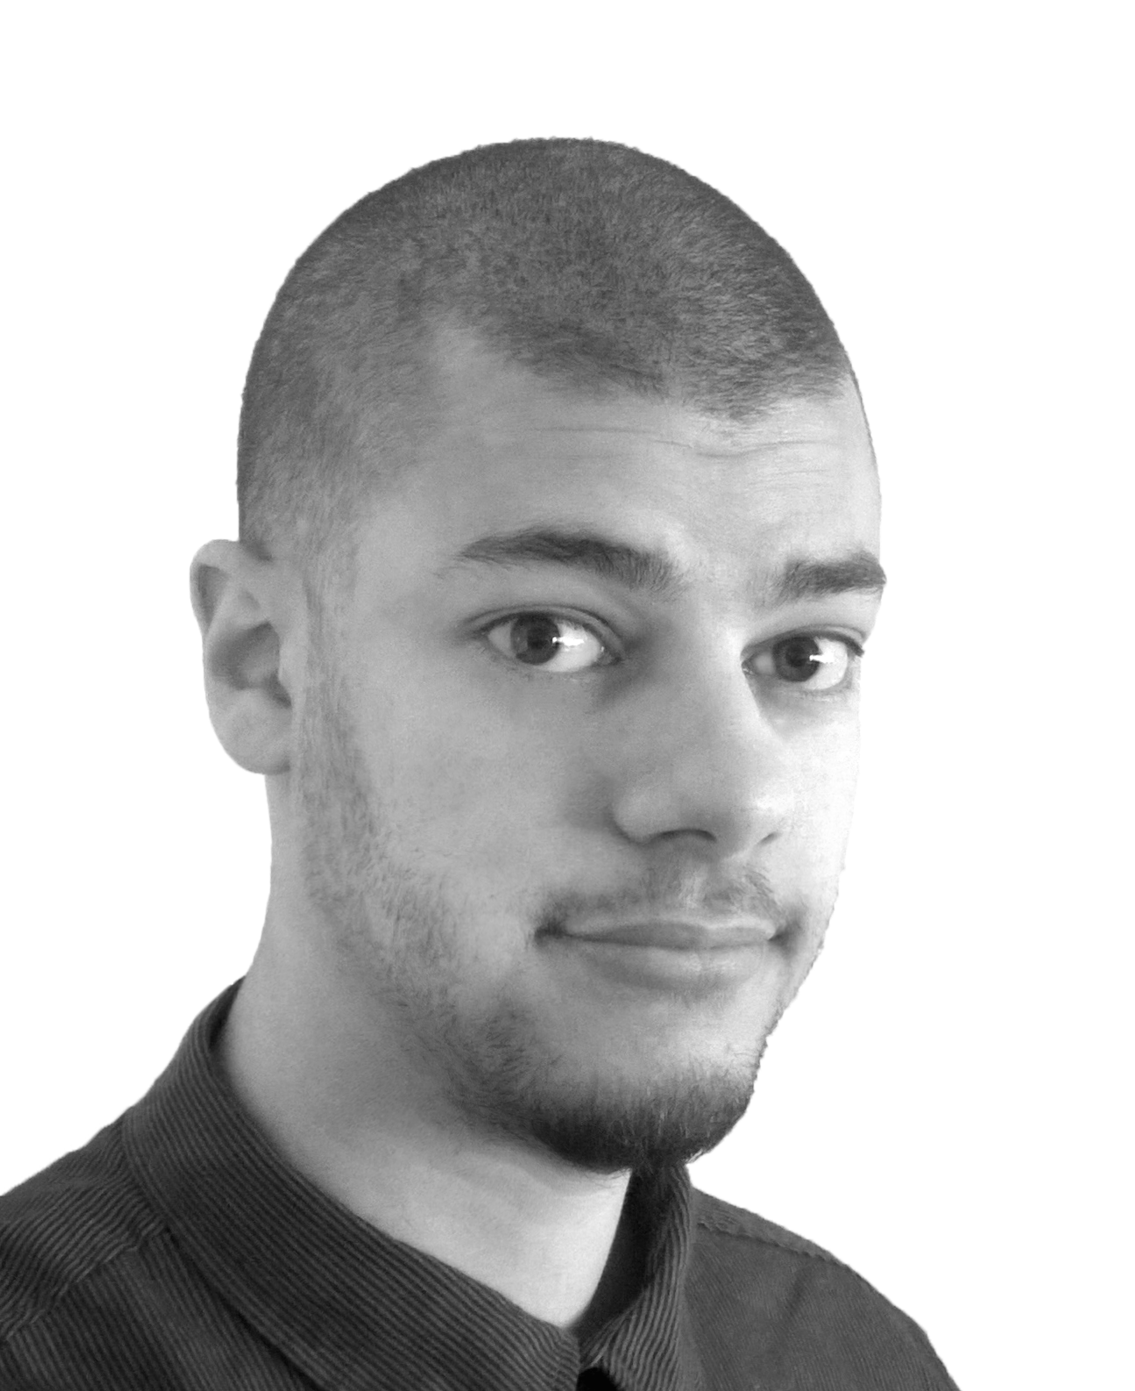
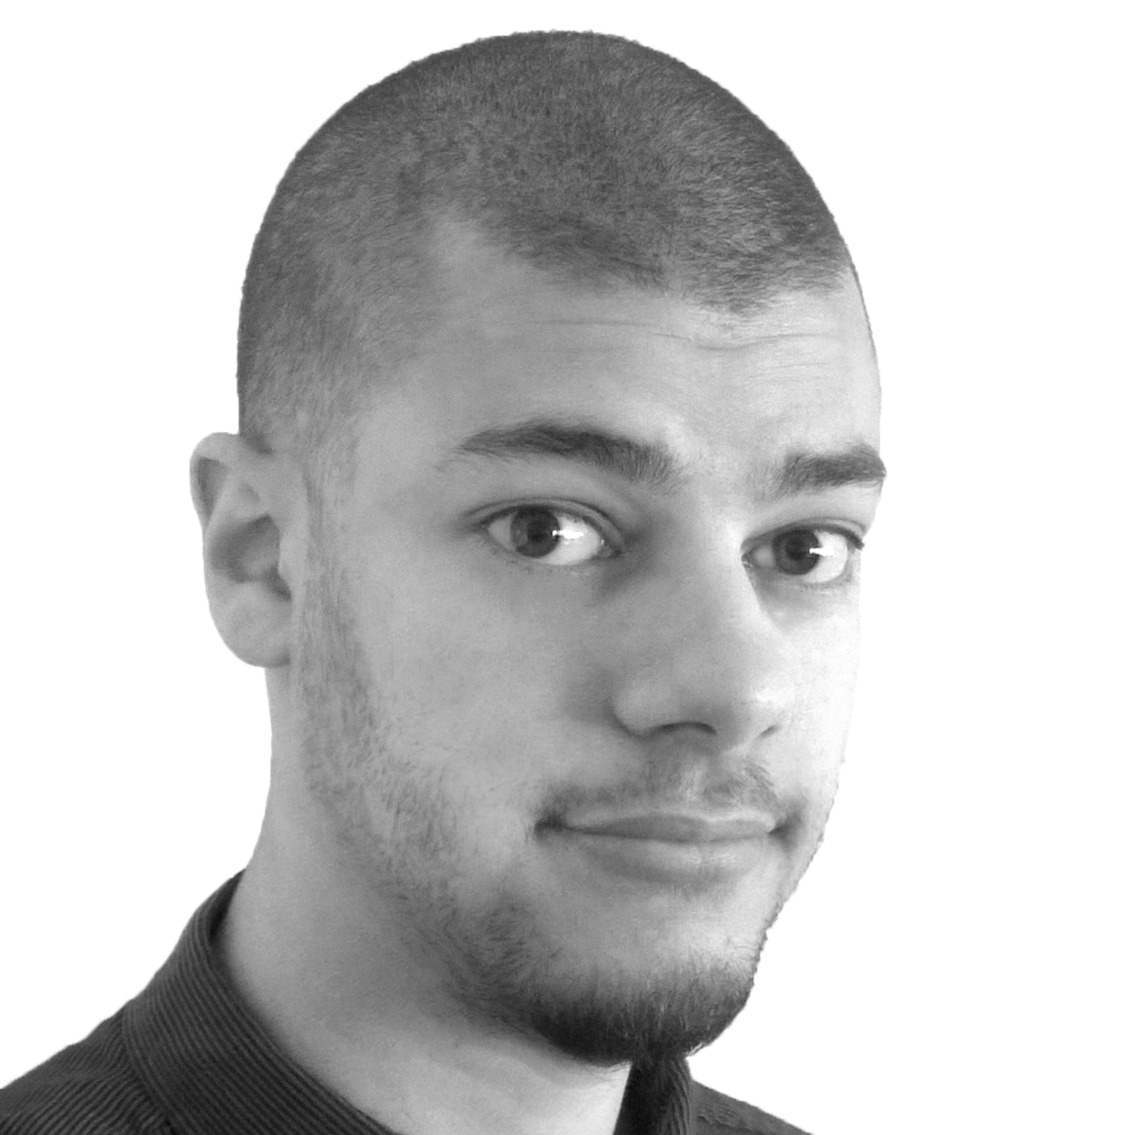
fix IE node picture alignment and fix Hamza's head

diff --git a/app/js/cases.js b/app/js/cases.js
@@ -46,8 +46,8 @@ export function getCasesTree() {
       .attr('x', '0%')
       .attr('y', '0%')
       .attr('height', '100%')
-      .attr('width','100%')
-      .attr('viewBox', '1 1 8 8')
+      .attr('width', '100%')
+      .attr('viewBox', '0 0 10 10')
           .append('image')
           .attr('xlink:href', function(c) {return require('../img/Cases/' + c.icon)})
           .attr('x', 0)

diff --git a/app/js/team.js b/app/js/team.js
@@ -54,7 +54,7 @@ export function getTeamTree() {
       .attr('y', '0%')
       .attr('height', '100%')
       .attr('width','100%')
-      .attr('viewBox', '1 1 8 8')
+      .attr('viewBox', '0 0 10 10')
           .append('image')
           .attr('xlink:href', function(d) {return require('../img/Team/' + d.image)})
           .attr('x', 0)
